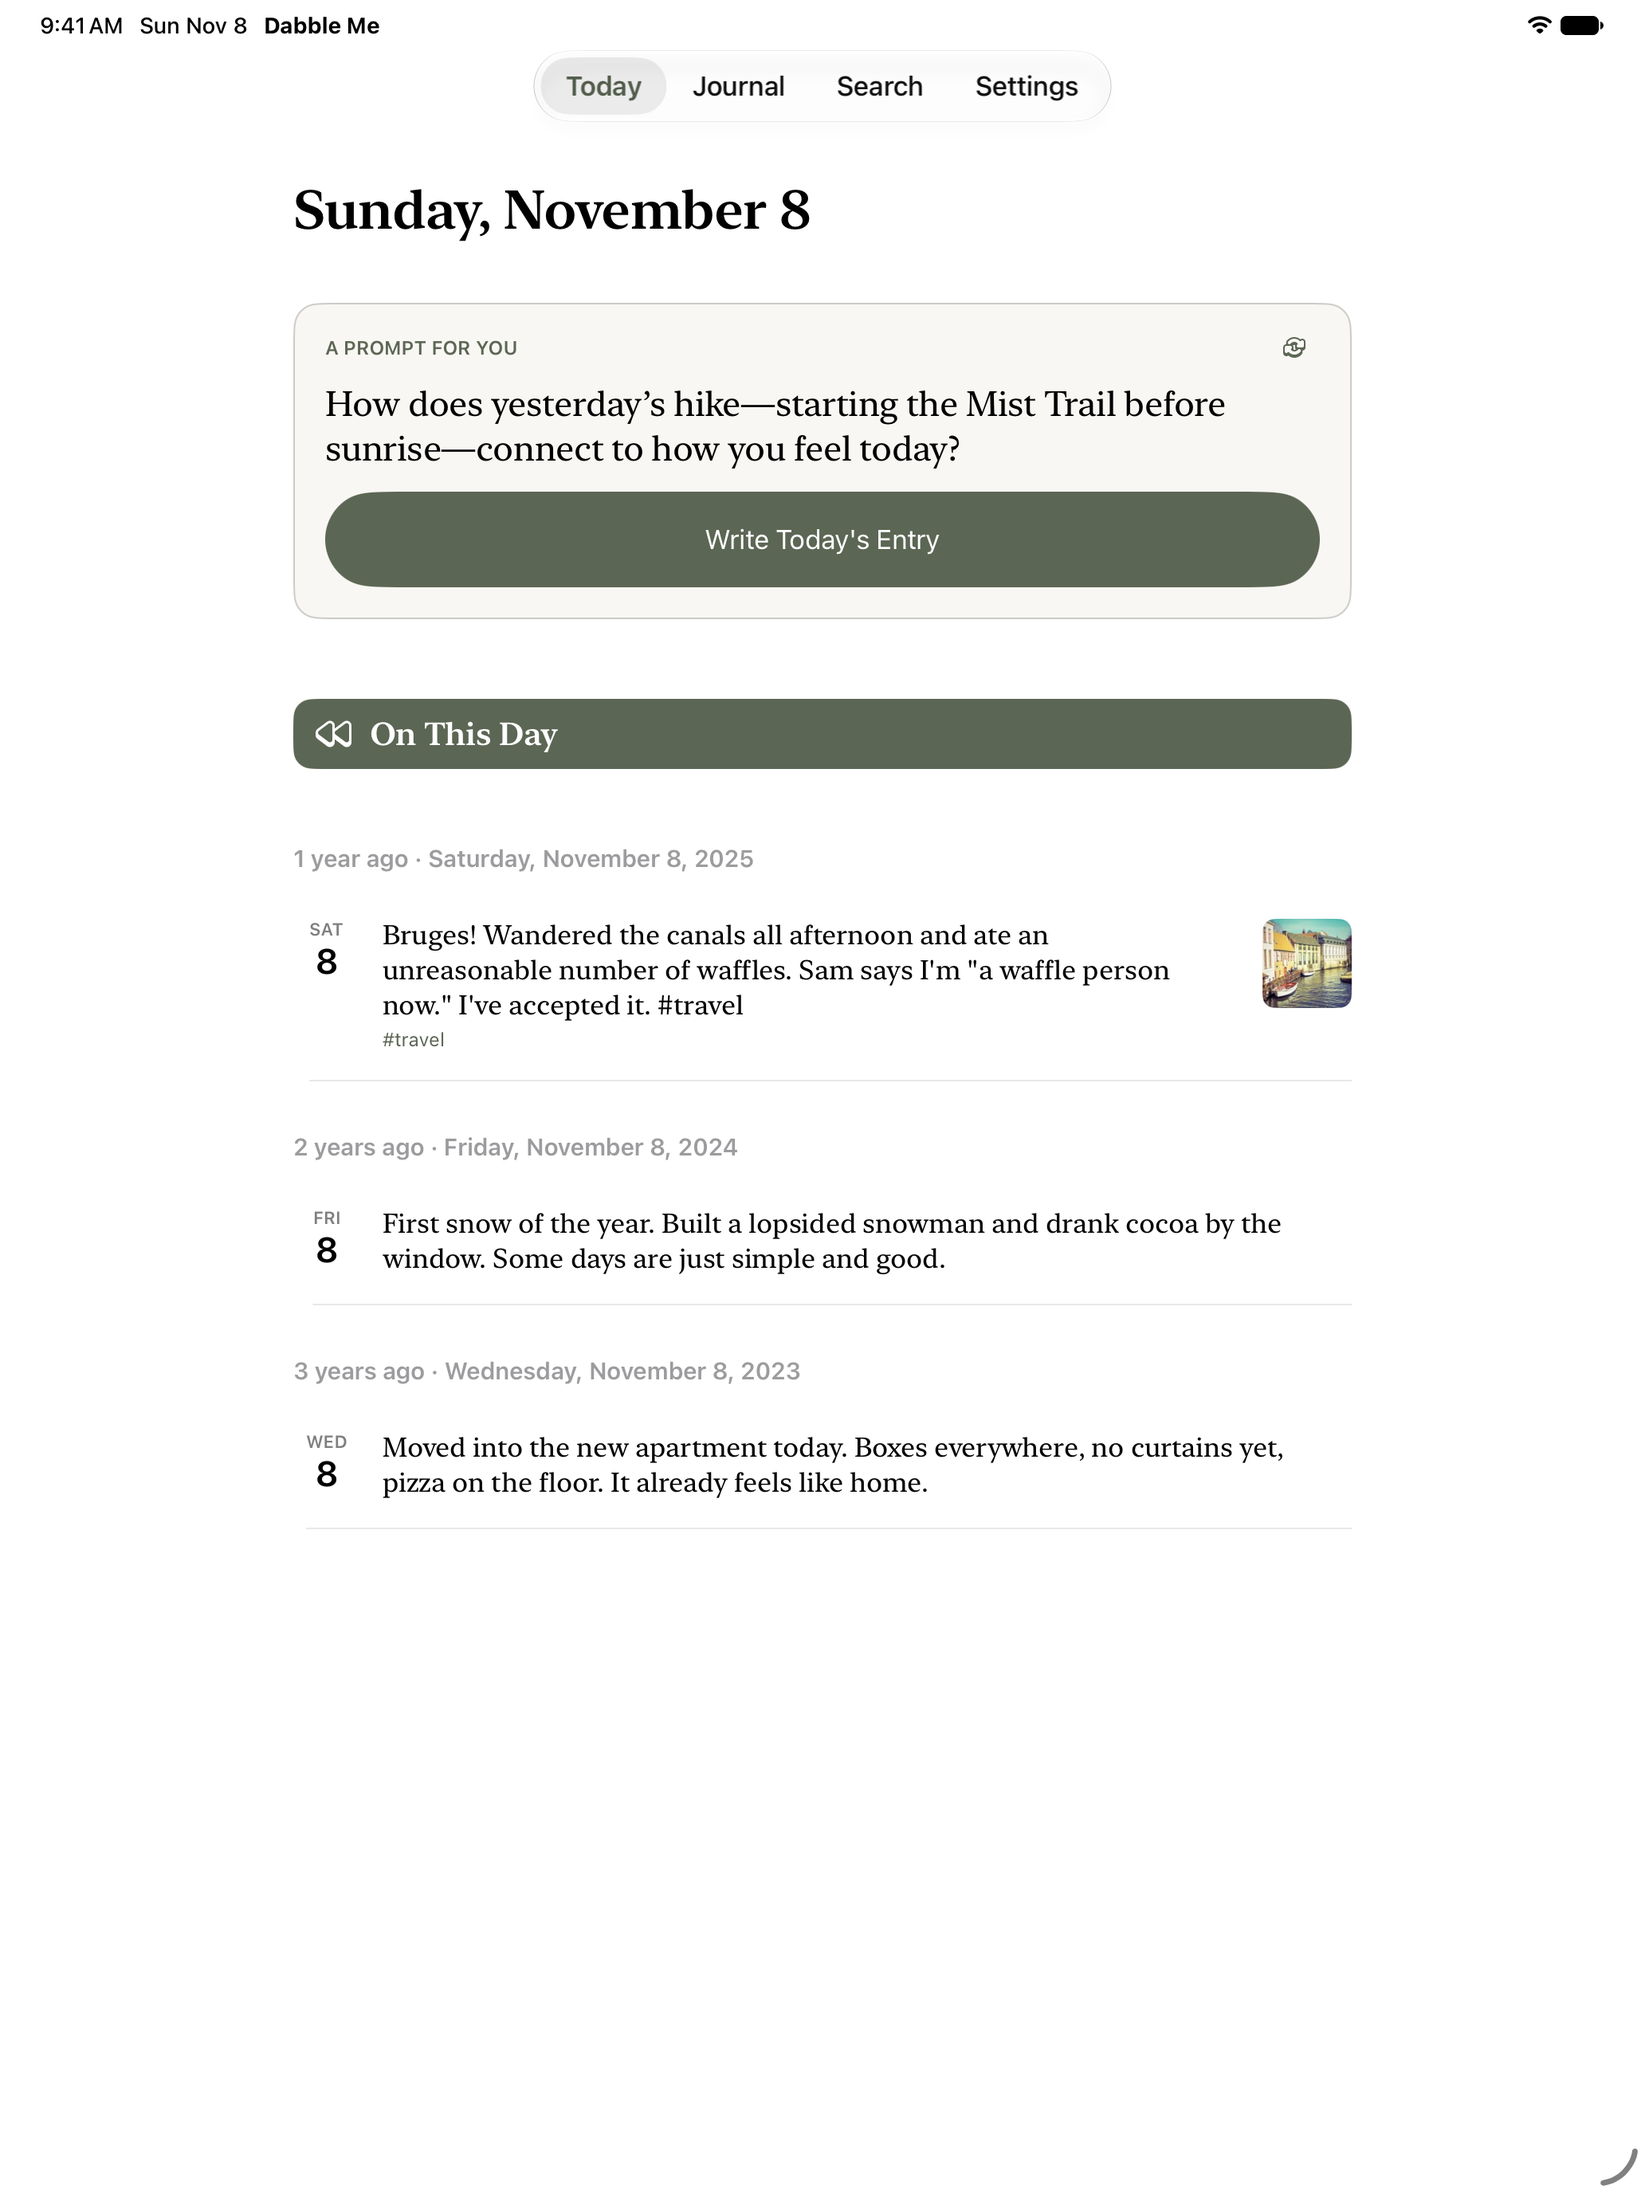
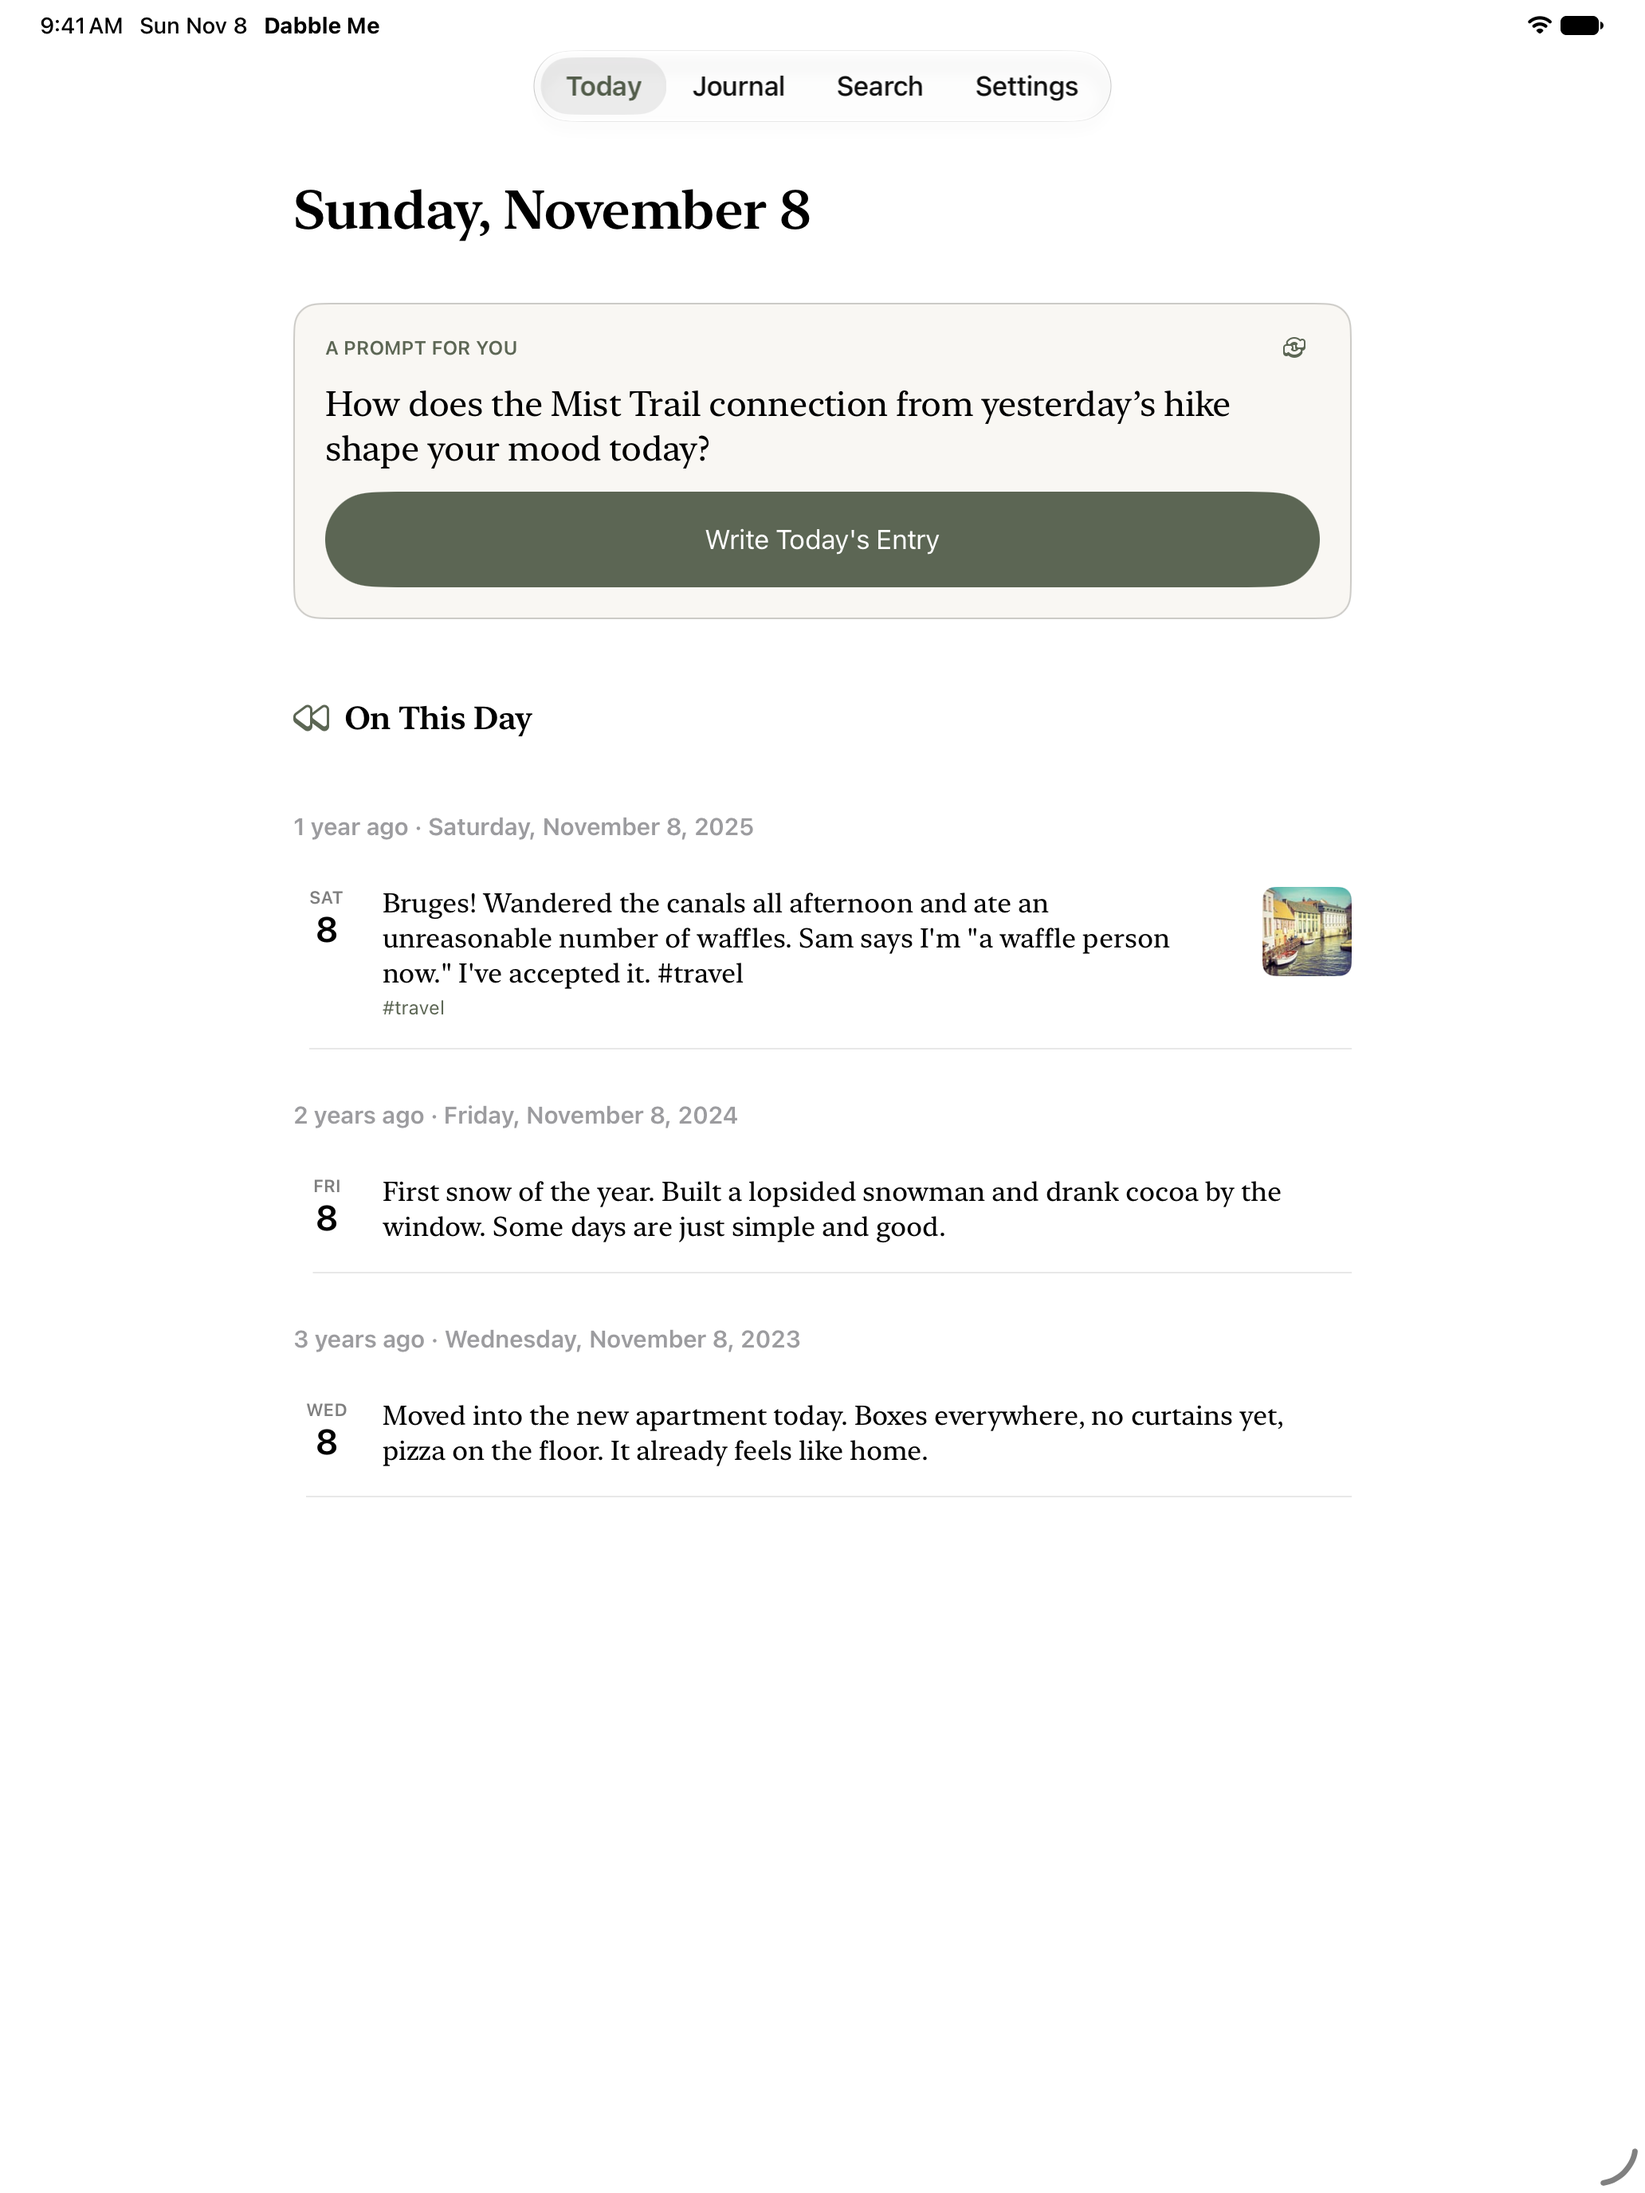
iOS: Today's Entry on the prompt box's card; plain section titles
The olive bands are gone. Today's entry (title and row) sits on the same Paper card
as the prompt box, so it stands apart from On This Day; the row keeps its swipes.
Screenshots and App Store images retaken; build 30.

diff --git a/ios/DabbleMe/Views/TodayView.swift b/ios/DabbleMe/Views/TodayView.swift
@@ -71,9 +71,17 @@ struct TodayView: View {
     @ViewBuilder
     private func todaySection(_ today: TodaySummary) -> some View {
         if let entry = today.entry {
+            // On the prompt box's Paper card, so today stands apart from On This Day. Two rows (the
+            // entry keeps its swipes), each drawing its half of the card.
             SectionTitle("Today's Entry", icon: "slab-calendar")
-                .plainRow()
+                .padding(.top, 6)
+                .listRowSeparator(.hidden)
+                .listRowInsets(EdgeInsets(top: 14, leading: 32, bottom: 4, trailing: 32))
+                .listRowBackground(TodayCard(edge: .top))
             row(entry.summary, showsDate: false)
+                .listRowSeparator(.hidden)
+                .listRowInsets(EdgeInsets(top: 4, leading: 32, bottom: 16, trailing: 32))
+                .listRowBackground(TodayCard(edge: .bottom))
         } else {
             VStack(alignment: .leading, spacing: 14) {
                 let usesAI = JournalIntelligence.isEnabled(for: model.me)
@@ -240,22 +248,64 @@ private struct SectionTitle: View {
         self.icon = icon
     }
 
-    /// A band of the brand olive, so Today's sections read as separate once both have entries.
     var body: some View {
-        HStack(spacing: 10) {
+        HStack(spacing: 8) {
             if let icon {
                 appIcon(icon)
+                    .foregroundStyle(.tint)
                     .accessibilityHidden(true)
             }
             Text(title)
                 .font(.system(.title3, design: .serif, weight: .semibold))
                 .accessibilityAddTraits(.isHeader)
-            Spacer(minLength: 0)
         }
-        .foregroundStyle(.white)
-        .padding(.horizontal, 14)
-        .padding(.vertical, 10)
-        // The brand olive in both modes (dark mode's lighter accent is too pale behind white text).
-        .background(Color(red: 0x5C / 255, green: 0x66 / 255, blue: 0x54 / 255), in: .rect(cornerRadius: 12))
+    }
+}
+
+/// Half of the Paper card behind Today's Entry (the same as the prompt box): the top half behind
+/// its title, the bottom behind the entry, outlined everywhere but where they meet.
+private struct TodayCard: View {
+    enum Edge { case top, bottom }
+    let edge: Edge
+
+    var body: some View {
+        let radius: CGFloat = 16
+        ZStack {
+            UnevenRoundedRectangle(topLeadingRadius: edge == .top ? radius : 0, bottomLeadingRadius: edge == .bottom ? radius : 0,
+                                   bottomTrailingRadius: edge == .bottom ? radius : 0, topTrailingRadius: edge == .top ? radius : 0)
+                .fill(Color("Paper"))
+            CardOutline(edge: edge, radius: radius)
+                .stroke(.quaternary, lineWidth: 1)
+        }
+        // Inset like the prompt box, which sits within the list's margins.
+        .padding(.horizontal, 16)
+        .padding(edge == .top ? .top : .bottom, 8)
+    }
+
+    /// The card's outline without the edge where the two halves meet.
+    private struct CardOutline: Shape {
+        let edge: Edge
+        let radius: CGFloat
+
+        func path(in rect: CGRect) -> Path {
+            let r = rect.insetBy(dx: 0.5, dy: 0.5)
+            var path = Path()
+            if edge == .top {
+                path.move(to: CGPoint(x: r.minX, y: rect.maxY))
+                path.addLine(to: CGPoint(x: r.minX, y: r.minY + radius))
+                path.addArc(center: CGPoint(x: r.minX + radius, y: r.minY + radius), radius: radius, startAngle: .degrees(180), endAngle: .degrees(270), clockwise: false)
+                path.addLine(to: CGPoint(x: r.maxX - radius, y: r.minY))
+                path.addArc(center: CGPoint(x: r.maxX - radius, y: r.minY + radius), radius: radius, startAngle: .degrees(270), endAngle: .degrees(0), clockwise: false)
+                path.addLine(to: CGPoint(x: r.maxX, y: rect.maxY))
+            } else {
+                path.move(to: CGPoint(x: r.minX, y: rect.minY))
+                path.addLine(to: CGPoint(x: r.minX, y: r.maxY - radius))
+                path.addArc(center: CGPoint(x: r.minX + radius, y: r.maxY - radius), radius: radius, startAngle: .degrees(180), endAngle: .degrees(90), clockwise: true)
+                path.addLine(to: CGPoint(x: r.maxX - radius, y: r.maxY))
+                path.addArc(center: CGPoint(x: r.maxX - radius, y: r.maxY - radius), radius: radius, startAngle: .degrees(90), endAngle: .degrees(0), clockwise: true)
+                path.addLine(to: CGPoint(x: r.maxX, y: rect.minY))
+            }
+            return path
+        }
     }
 }
